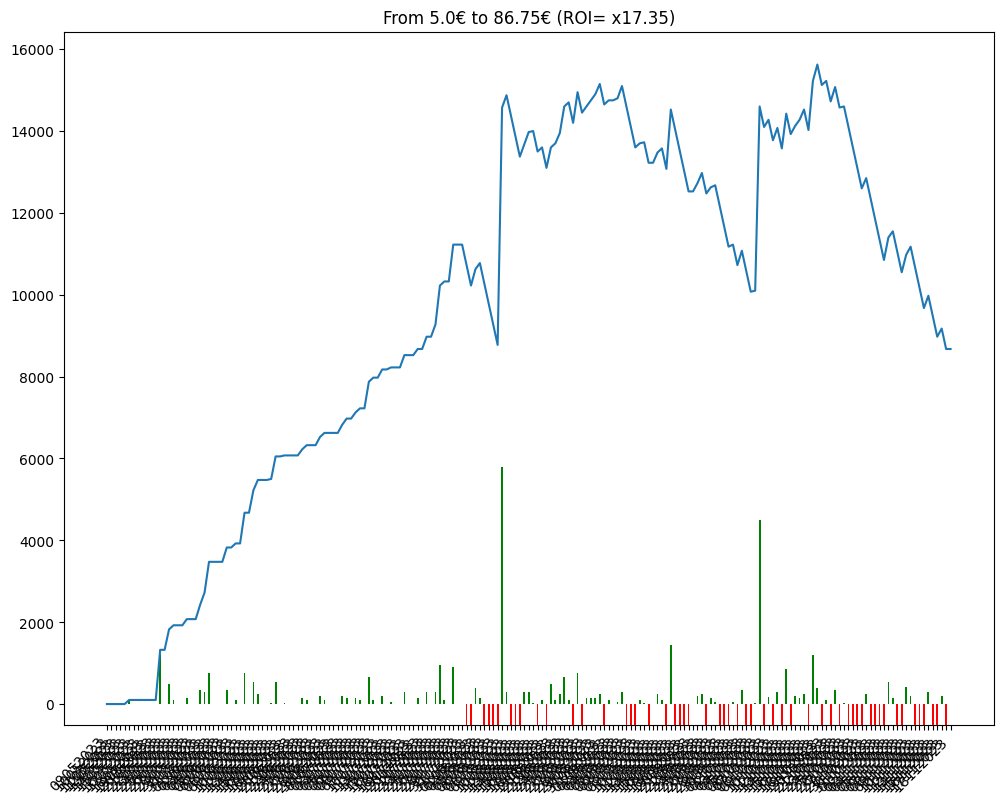
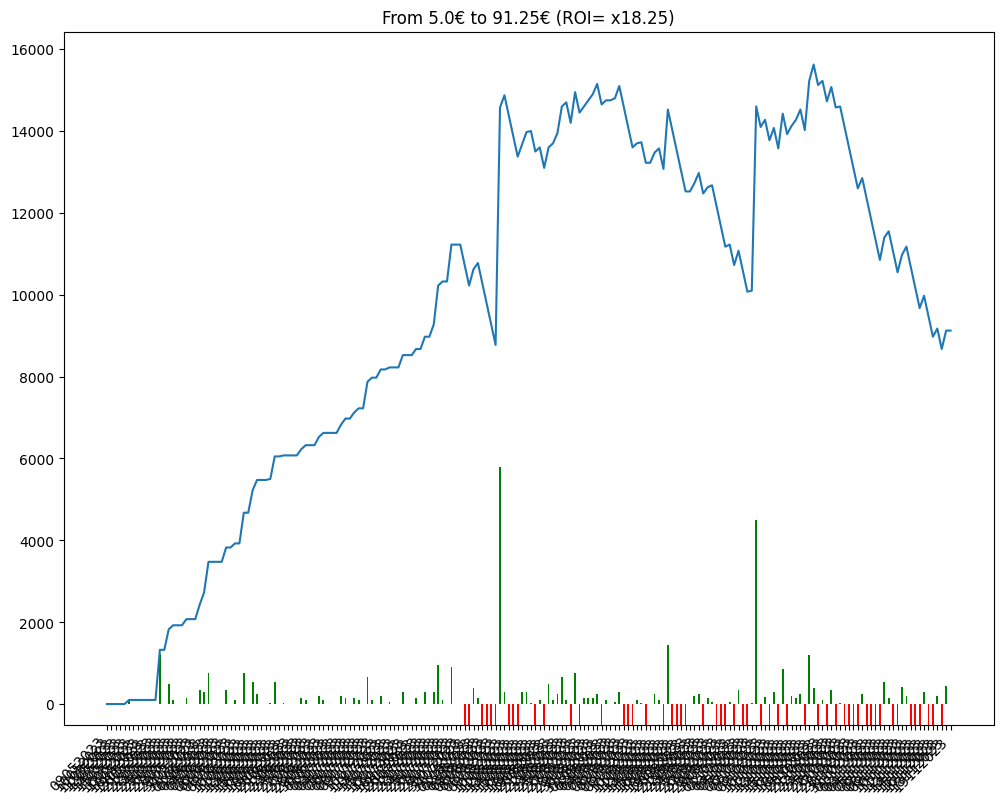
comment from python script

diff --git a/bethistory.html b/bethistory.html
@@ -86,7 +86,8 @@
             En observant la courbe 🤔, on peut avoir une idée visuelle de l'évolution des gains et ainsi évaluer le model utilisé 🧑🏫.
         </p>
         
-        <img src = "/candle.png" alt="candle chart"/><table><tr><td>Chevaux joués</td><td>Gains</td><td>URL Circuits</td></tr><tr><td>5 - ABATURC SP</td><td>0</td><td><a href=https://www.pmu.fr/turf/18112023/r7/c3 target="_blank">https://www.pmu.fr/turf/18112023/r7/c3</a></td></tr>
+        <img src = "/candle.png" alt="candle chart"/><table><tr><td>Chevaux joués</td><td>Gains</td><td>URL Circuits</td></tr><tr><td>1 - RUSSIAN EMPEROR</td><td>0</td><td><a href=https://www.pmu.fr/turf/19112023/r2/c9 target="_blank">https://www.pmu.fr/turf/19112023/r2/c9</a></td></tr>
+<tr><td>5 - ABATURC SP</td><td>+450</td><td><a href=https://www.pmu.fr/turf/18112023/r7/c3 target="_blank">https://www.pmu.fr/turf/18112023/r7/c3</a></td></tr>
 <tr><td>6 - POPPIE SAN</td><td>-500</td><td><a href=https://www.pmu.fr/turf/17112023/r3/c1 target="_blank">https://www.pmu.fr/turf/17112023/r3/c1</a></td></tr>
 <tr><td>5 - PREMIERE ETOILE</td><td>+200</td><td><a href=https://www.pmu.fr/turf/16112023/r3/c7 target="_blank">https://www.pmu.fr/turf/16112023/r3/c7</a></td></tr>
 <tr><td>4 - SADAK</td><td>-500</td><td><a href=https://www.pmu.fr/turf/15112023/r5/c7 target="_blank">https://www.pmu.fr/turf/15112023/r5/c7</a></td></tr>
